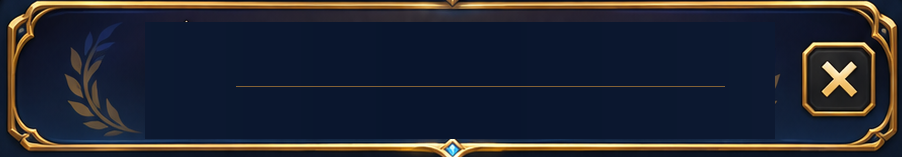
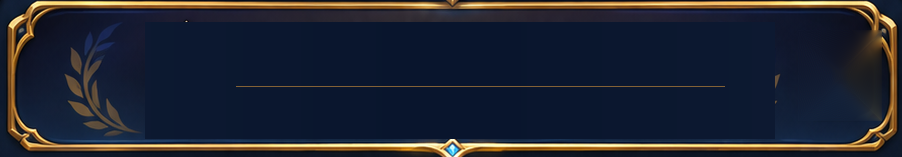
7.9.7

Changed region(s): [[0.8692, 0.1783, 0.9933, 0.7643]]

diff --git a/Assets/Scripts/CollectionRefonteUI.cs b/Assets/Scripts/CollectionRefonteUI.cs
@@ -816,6 +816,39 @@ public class CollectionRefonteUI : MonoBehaviour
             24, TexteSecondaire, .05f, .014f, .95f, .062f);
     }
 
+    // Fermeture de la fiche : fond bleu nuit propre, bordure doree biseautee,
+    // deux diagonales UGUI pour la croix. Aucun caractère spécial / sprite requis.
+    private void ConstruireCroixRetourEncyclopedie(RectTransform banniere)
+    {
+        var zone = Zone("RetourGalerie", banniere,
+            .885f, .218f, .976f, .782f);
+        var fond = ImageUI(zone, new Color(.046f, .072f, .119f, 1f), null, true);
+        var bouton = zone.gameObject.AddComponent<Button>();
+        bouton.targetGraphic = fond;
+        bouton.onClick.AddListener(RetourGalerie);
+        var teintes = bouton.colors;
+        teintes.normalColor = Color.white;
+        teintes.highlightedColor = new Color(1f, .98f, .89f, 1f);
+        teintes.pressedColor = new Color(.78f, .83f, .94f, 1f);
+        bouton.colors = teintes;
+
+        // Réutilise exactement le même dessin de contour que les autres cadres.
+        DessinerCadreAvecImagesUnity(zone);
+
+        // Ombre discrète puis deux branches dorées, dessinées directement en UI.
+        var centre = new Vector2(.5f, .5f);
+        var ombre = new Color(.20f, .105f, .025f, .95f);
+        var lumiere = new Color(1f, .88f, .56f, 1f);
+        AjouterDiagonaleCadre(zone, "CroixOmbre1", centre,
+            new Vector2(0f, -2f), 43f, 11f, 45f, ombre);
+        AjouterDiagonaleCadre(zone, "CroixOmbre2", centre,
+            new Vector2(0f, -2f), 43f, 11f, -45f, ombre);
+        AjouterDiagonaleCadre(zone, "CroixOr1", centre,
+            Vector2.zero, 43f, 7.5f, 45f, lumiere);
+        AjouterDiagonaleCadre(zone, "CroixOr2", centre,
+            Vector2.zero, 43f, 7.5f, -45f, lumiere);
+    }
+
     // Fiche immersive V3.5, inspiree exactement de la maquette bleue/or.
     // Reservee a l'encyclopedie. La collection personnelle reste 100% V3.2.
     // Pour le futur rendu 3D, remplacer le composant Image "HeroIllustration2D"
@@ -843,13 +876,9 @@ public class CollectionRefonteUI : MonoBehaviour
         Texte("RoleEtRarete", panneauIdentite, p.Role + "  ·  " + p.Rarete, 30,
             TexteClair, .13f, .12f, .82f, .46f);
 
-        // La croix en haut a droite est une zone de clic sur la banniere.
-        var retour = Zone("RetourGalerie", panneauIdentite,
-            .867f, .16f, .988f, .84f);
-        var cible = ImageUI(retour, new Color(1f, 1f, 1f, .015f), null, true);
-        var boutonRetour = retour.gameObject.AddComponent<Button>();
-        boutonRetour.targetGraphic = cible;
-        boutonRetour.onClick.AddListener(RetourGalerie);
+        // Bouton de fermeture entierement construit en UGUI.
+        // La banniere PNG livree ne contient plus l'ancienne croix incrustee.
+        ConstruireCroixRetourEncyclopedie(panneauIdentite);
 
         // 2 - Deux boutons a gauche. Ils ouvrent les vraies pages deja existantes.
         BoutonFicheImage("Communauté", racine, "bouton_communaute",
@@ -912,12 +941,34 @@ public class CollectionRefonteUI : MonoBehaviour
             p.Spd.ToString(),
             p.Crit + " %"
         };
-        float[] centre = { .798f, .625f, .453f, .278f, .108f };
+        // Titre et lignes entierement dynamiques (plus de valeurs sans legendes).
+        var titreStatistiques = Texte("TitreStatistiques", statistiques,
+            "STATISTIQUES", 28, Or,
+            .09f, .837f, .91f, .970f, TextAlignmentOptions.Center);
+        titreStatistiques.fontStyle = FontStyles.Bold;
+        var traitTitre = Zone("SeparateurTitre", statistiques,
+            .100f, .817f, .900f, .823f);
+        ImageUI(traitTitre, new Color(.93f, .73f, .37f, .45f));
+
+        string[] etiquettes = { "PV", "ATQ", "DEF", "SPD", "CRIT" };
+        float[] centre = { .735f, .582f, .430f, .278f, .126f };
         for (int i = 0; i < valeurs.Length; i++)
         {
-            Texte("Valeur" + i, statistiques, valeurs[i], 37, TexteClair,
-                .650f, centre[i] - .08f, .94f, centre[i] + .08f,
+            var label = Texte("LibelleStat_" + i, statistiques,
+                etiquettes[i], 34, Or,
+                .125f, centre[i] - .052f, .51f, centre[i] + .052f,
+                TextAlignmentOptions.MidlineLeft);
+            label.fontStyle = FontStyles.Bold;
+            Texte("Valeur" + i, statistiques, valeurs[i], 36, TexteClair,
+                .545f, centre[i] - .052f, .935f, centre[i] + .052f,
                 TextAlignmentOptions.MidlineRight);
+
+            if (i < valeurs.Length - 1)
+            {
+                var separateur = Zone("SeparateurStat_" + i, statistiques,
+                    .115f, centre[i] - .078f, .885f, centre[i] - .074f);
+                ImageUI(separateur, new Color(.88f, .68f, .35f, .29f));
+            }
         }
 
         // 6 - Pop-up de details : absente par defaut comme sur la reference.
